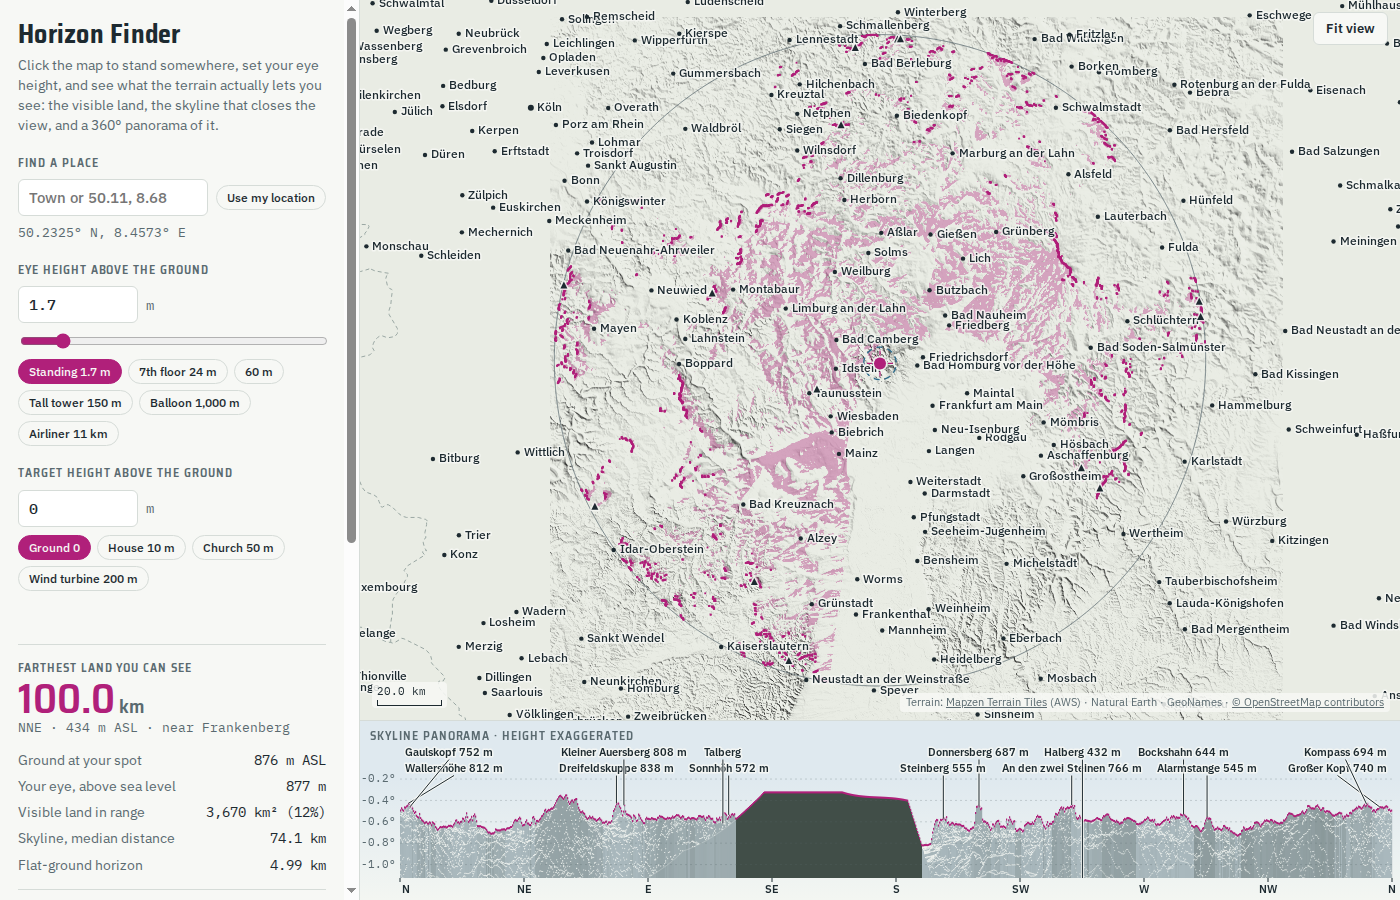
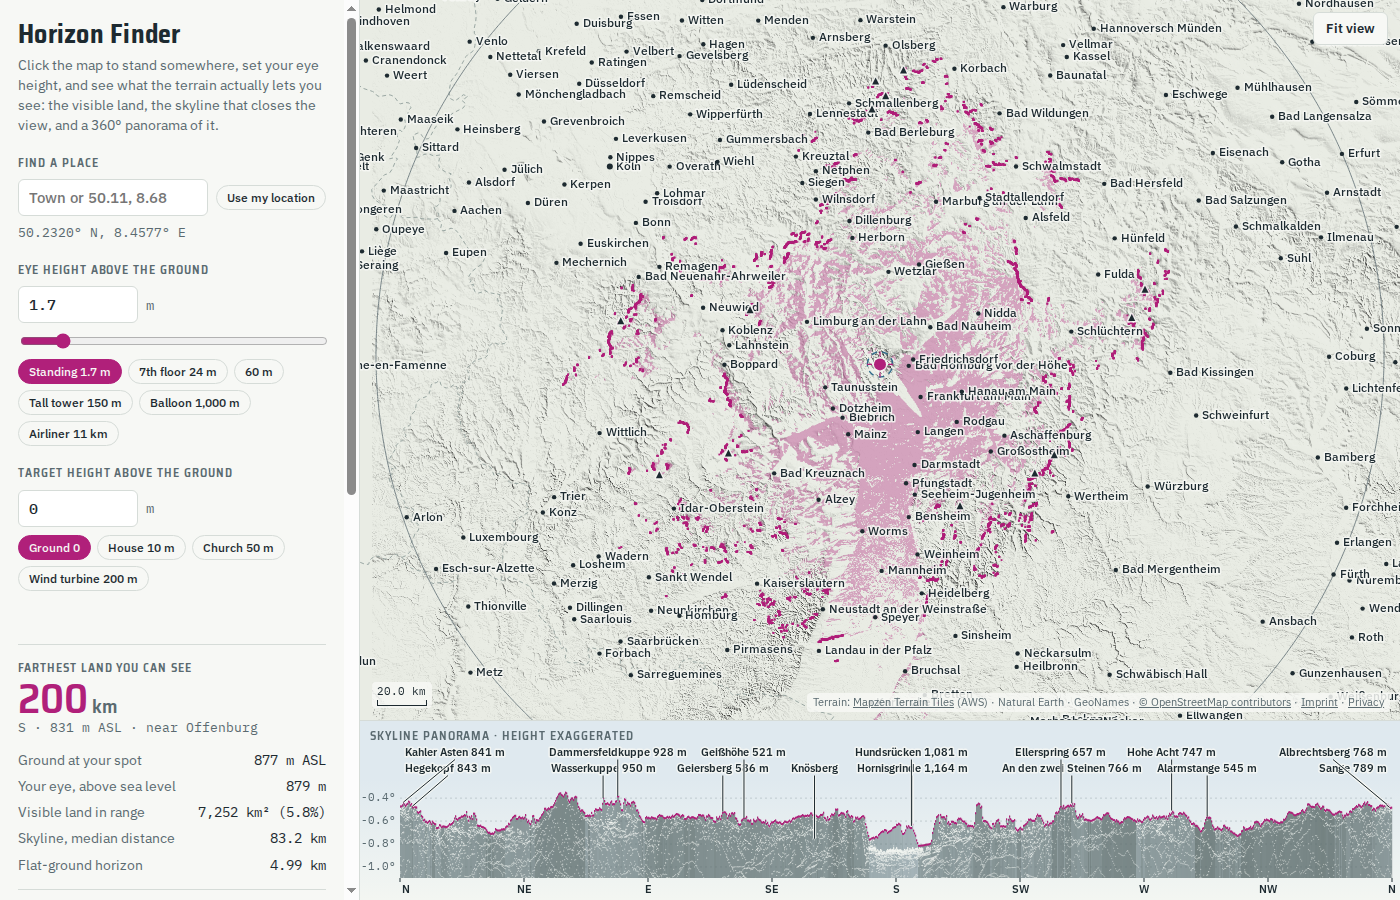
README screenshot: Großer Feldberg out to 200 km, linked to that view

diff --git a/README.md b/README.md
@@ -6,7 +6,7 @@ and a 360° panorama of it with named peaks.
 
 **Live:** https://horizon-map.babanin.de/
 
-![Horizon Finder: view from Großer Feldberg (Taunus), visible ground tinted on the map, skyline panorama with peak names below](images/screenshot.png)
+[![Horizon Finder: view from Großer Feldberg (Taunus) out to 200 km, visible ground tinted on the map, skyline panorama with peak names below](images/screenshot.png)](https://horizon-map.babanin.de/#lat=50.23201&lon=8.45771&h=1.7&k=0.13&rmax=200000&t=0)
 
 ## What it does
 
